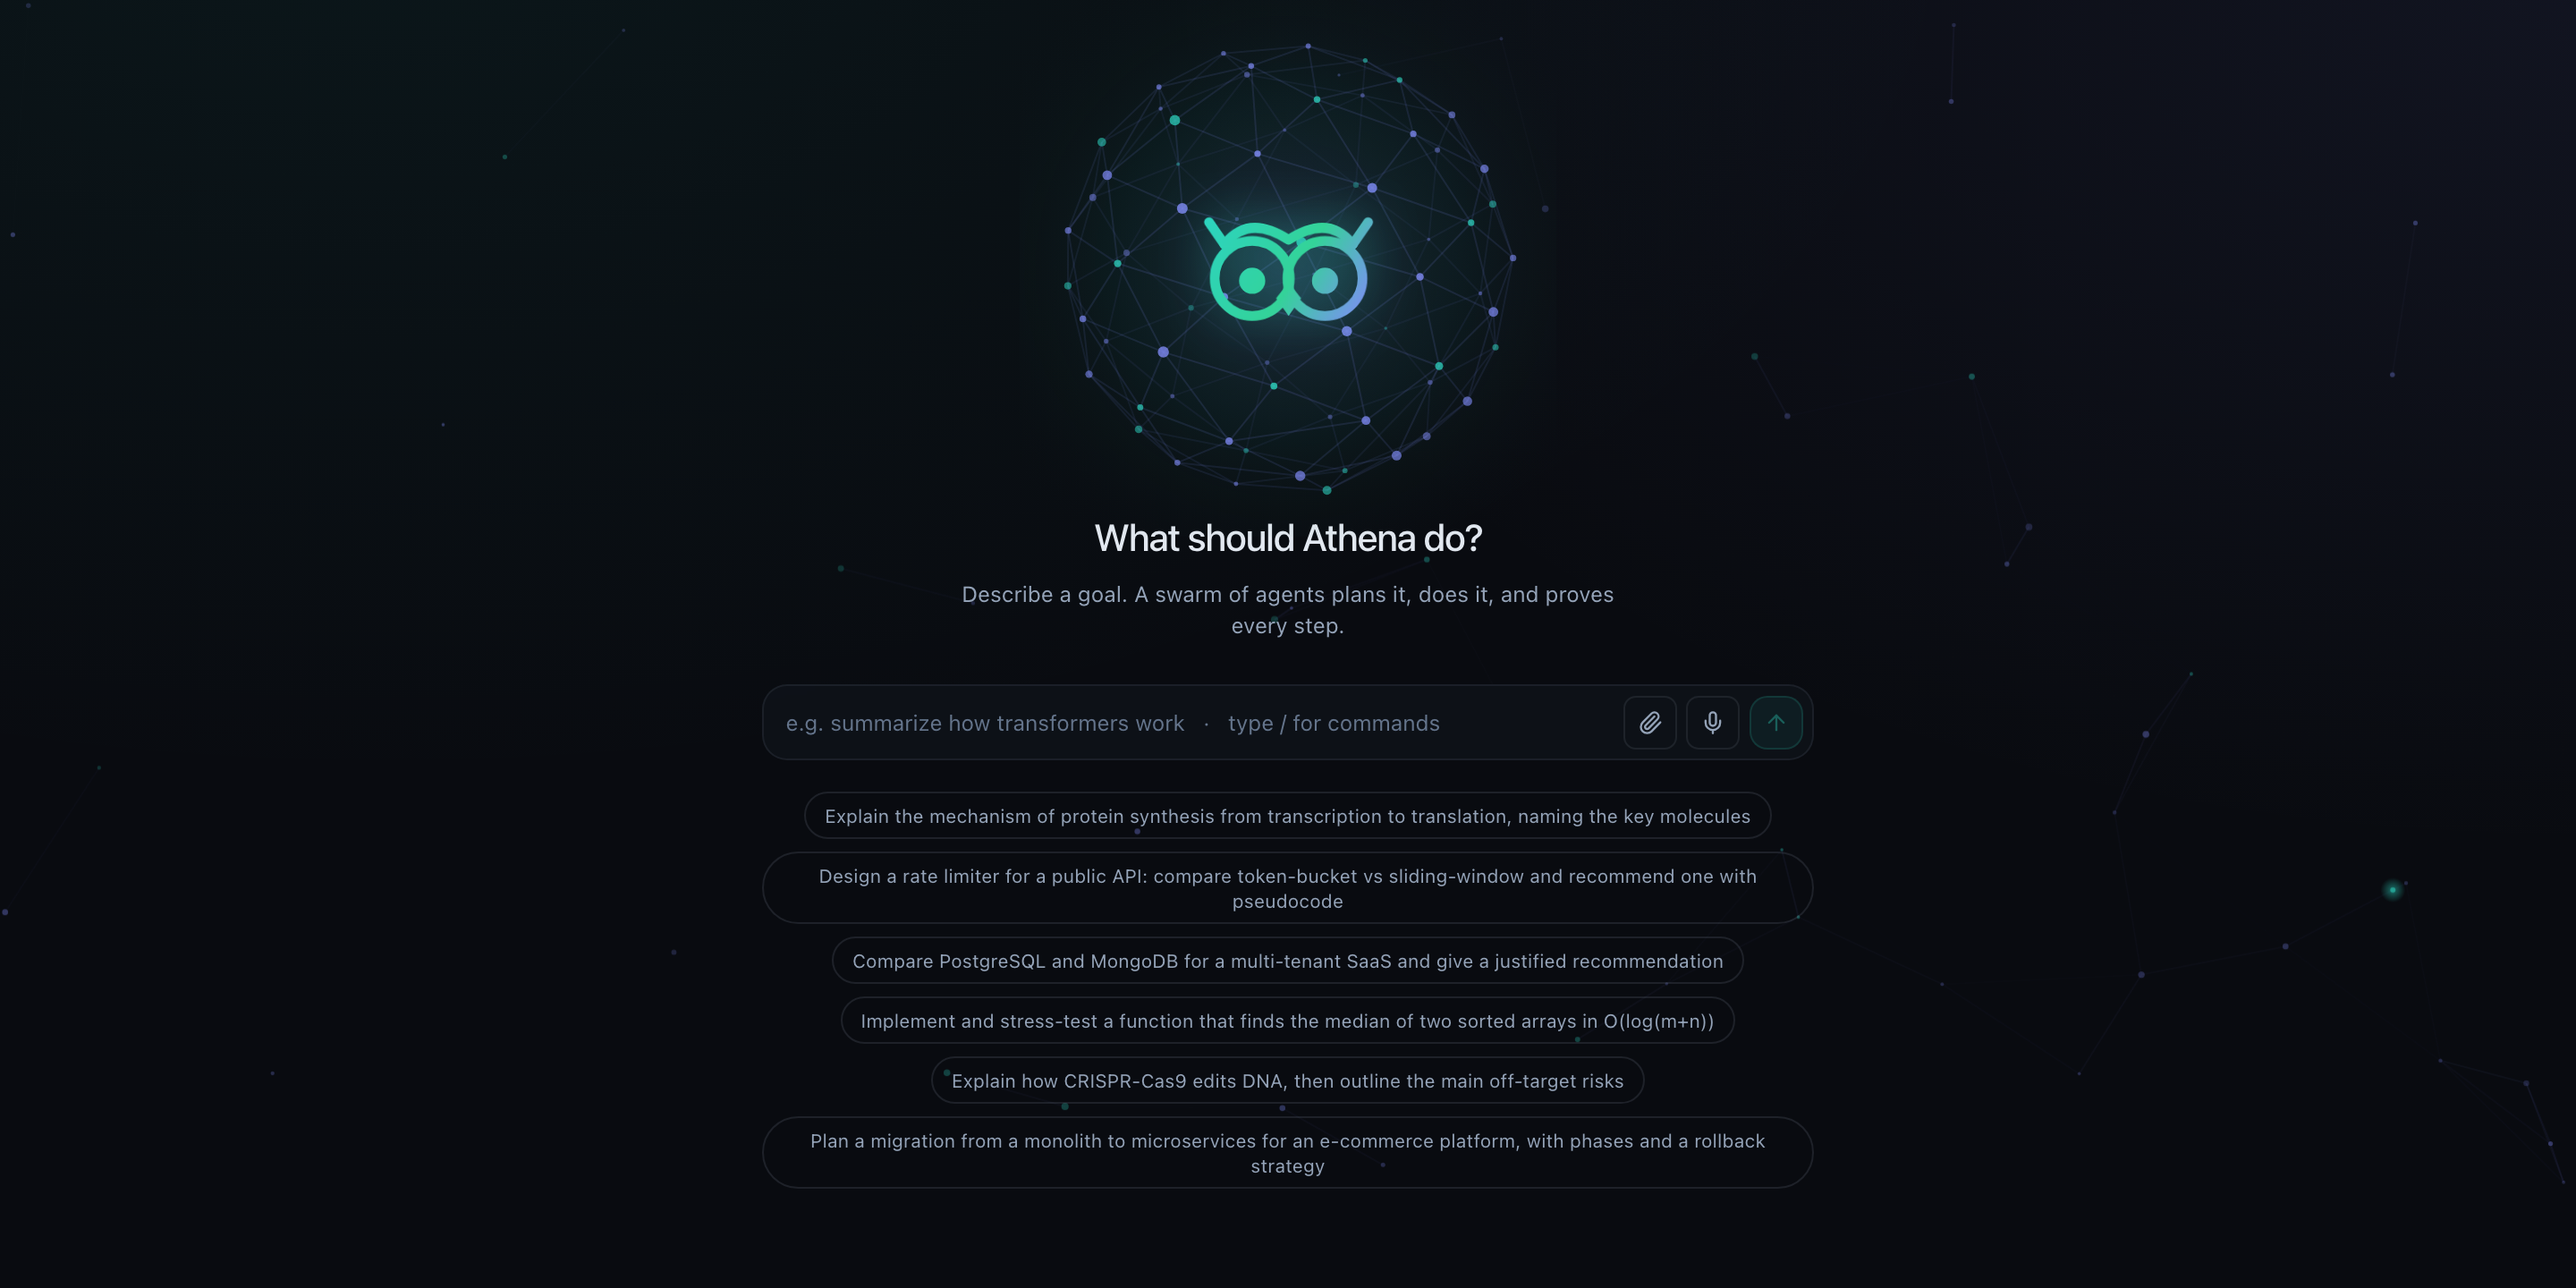
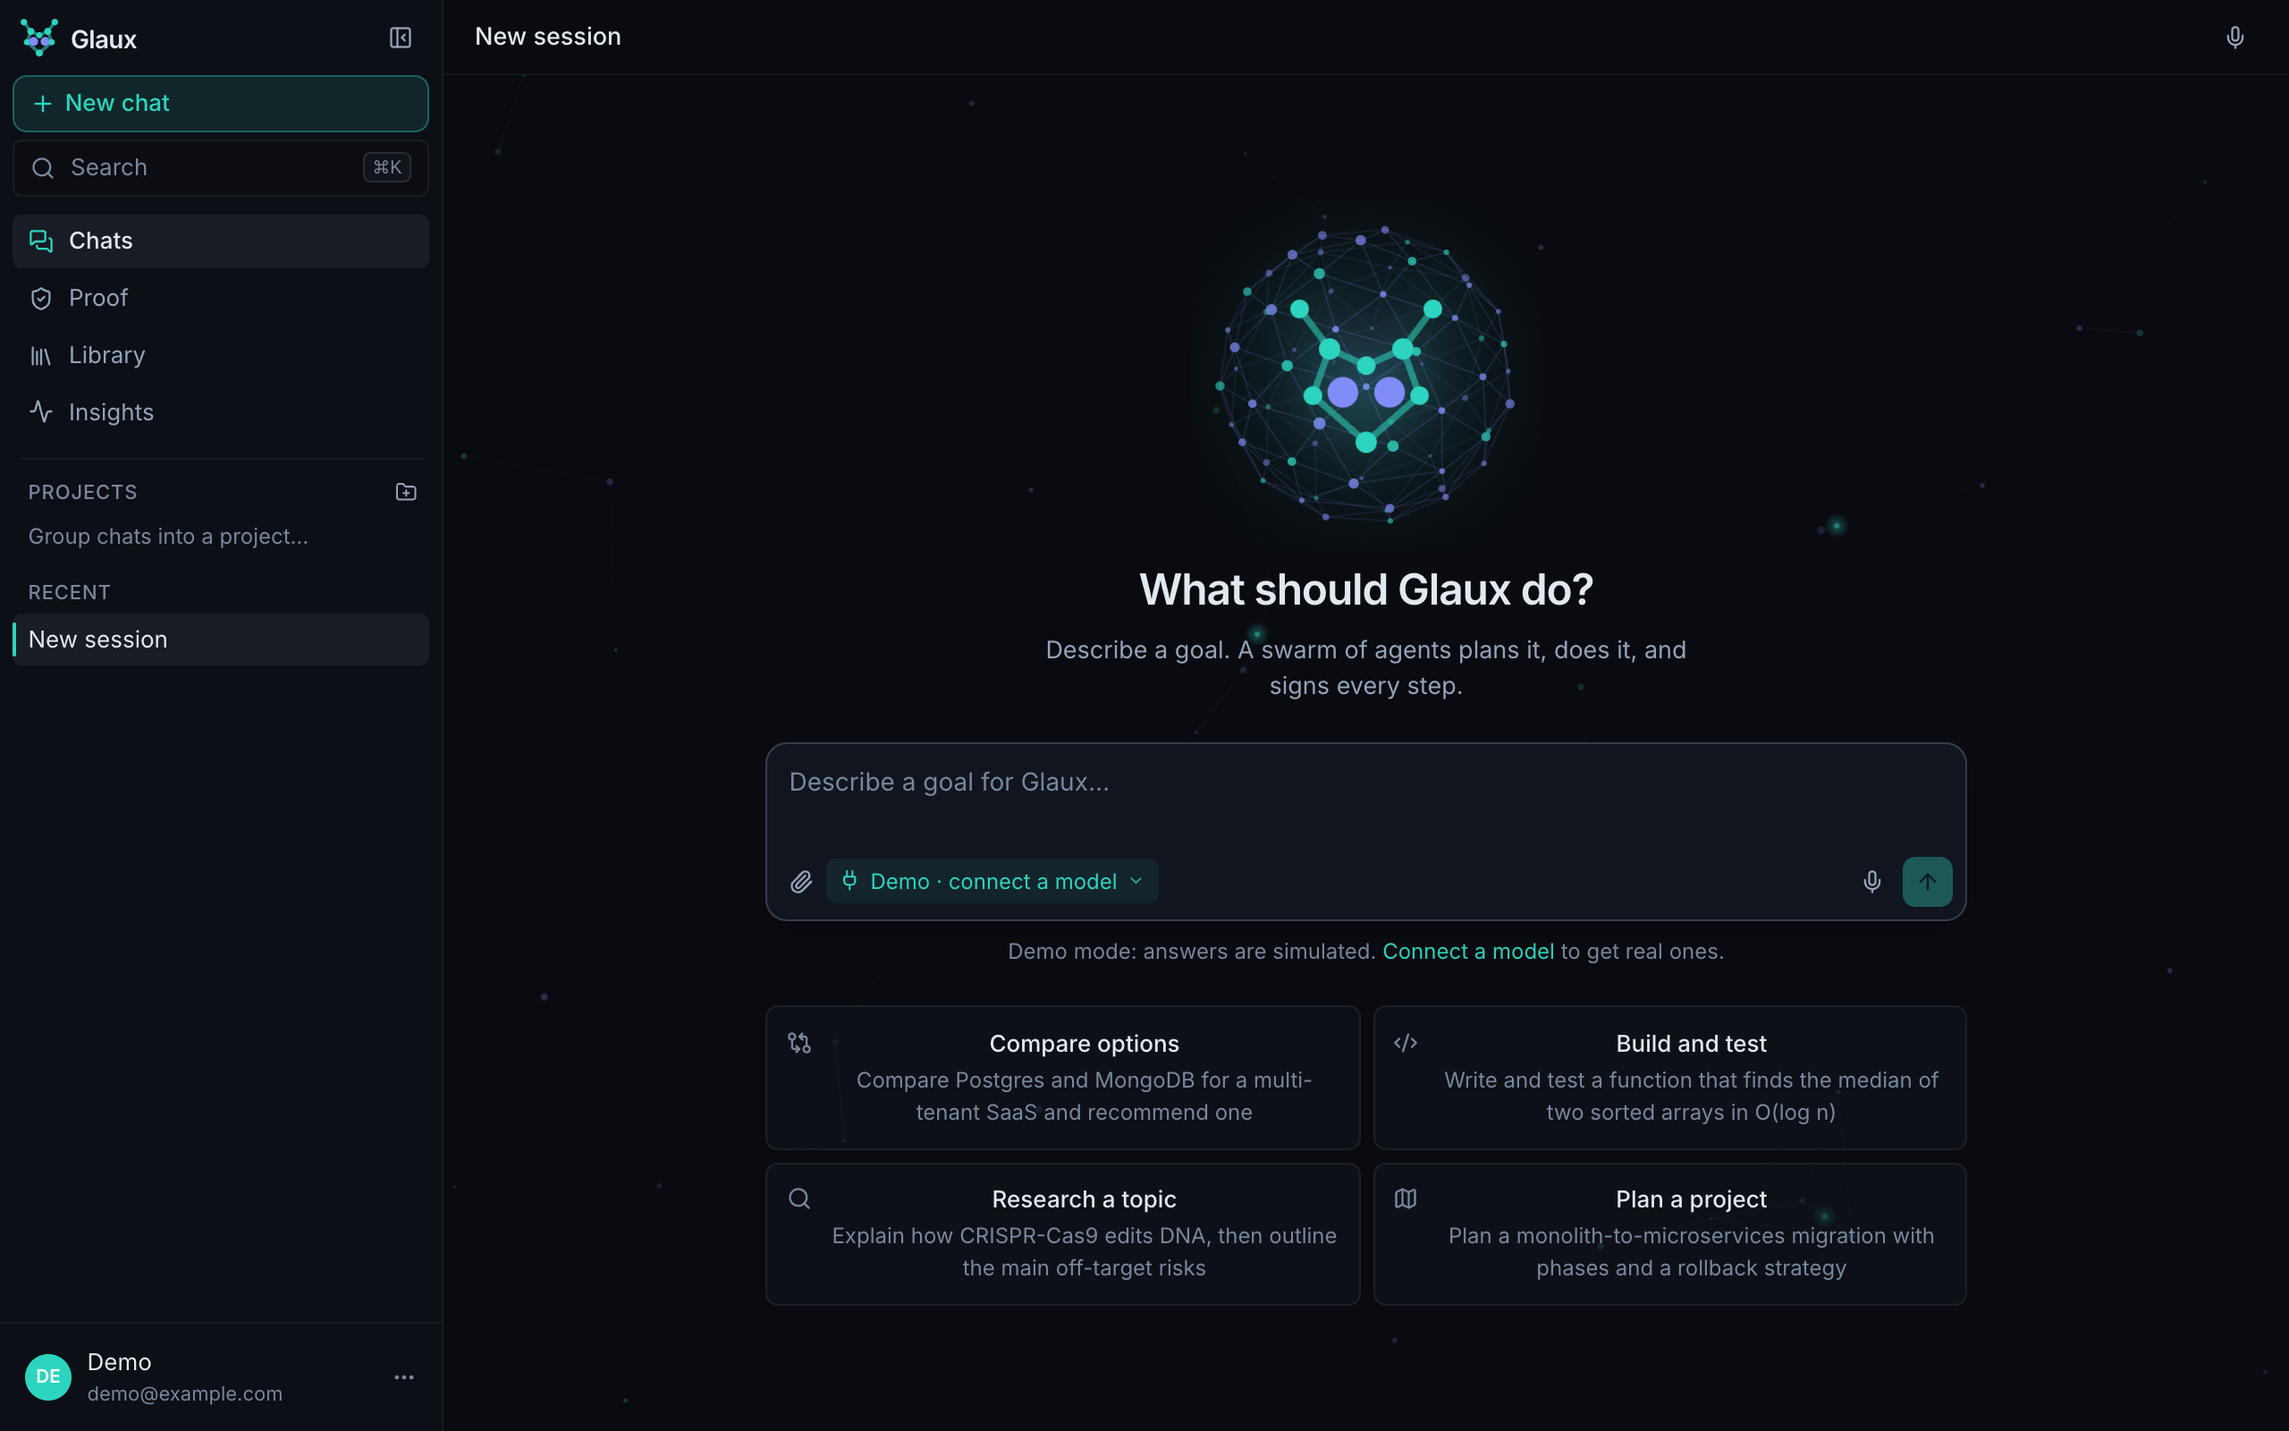
Show the current console in the README and on the site
The README's screenshots were from July: the old layout, with the console
still saying Athena. Replace them with captures of the current UI in demo
mode, add the Proof page, and drop an unused landing screenshot that still
said Athena. The site quoted routing numbers from the old screenshot, so it
now quotes the new one.

diff --git a/site/app/page.tsx b/site/app/page.tsx
@@ -236,8 +236,8 @@ export default function Home() {
             </h2>
             <p className="mt-4 text-muted">
               The harness learns from task outcomes: better routing, per-specialist budgets, prompt
-              lessons, distilled playbooks, and promoting proven tools. Above, it has lifted its own
-              routing accuracy to 95% over 71 episodes.
+              lessons, distilled playbooks, and promoting proven tools. In the demo run shown here,
+              it lifted its own routing accuracy from 31% to 51% over 61 episodes.
             </p>
             <ul className="mt-5 space-y-2.5 text-sm text-muted">
               {[
@@ -261,9 +261,9 @@ export default function Home() {
           <div className="overflow-hidden rounded-2xl border border-line/12 shadow-xl shadow-black/30">
             <Image
               src={asset("/images/evolution.png")}
-              alt="The self-evolving harness"
-              width={2400}
-              height={2000}
+              alt="The self-improvement tab: routing accuracy, learned budgets, and a signed evolution log"
+              width={2560}
+              height={1970}
               className="w-full"
             />
           </div>

diff --git a/README.md b/README.md
@@ -7,7 +7,7 @@ hash-chained ledger — so you can *verify* what your agents did, not just read 
 
 [![CI](https://github.com/aniketshukla1/glaux/actions/workflows/ci.yml/badge.svg)](https://github.com/aniketshukla1/glaux/actions/workflows/ci.yml)
 ![Python](https://img.shields.io/badge/python-3.10%2B-blue)
-![Tests](https://img.shields.io/badge/tests-464%20passing-brightgreen)
+![Tests](https://img.shields.io/badge/tests-469%20passing-brightgreen)
 [![License](https://img.shields.io/badge/license-Apache--2.0-blue)](LICENSE)
 
 `multi-agent swarm` · `signed ledger` · `runtime tool synthesis` · `self-improving` · `WASM sandbox` · `local-first`
@@ -36,7 +36,9 @@ git clone https://github.com/aniketshukla1/glaux && cd glaux
 ```
 
 <div align="center">
-<img src="docs/images/console.png" alt="The Glaux swarm console" width="860" />
+<img src="docs/images/console.png" alt="The Glaux console: describe a goal, and a swarm of agents plans it, does it, and signs every step" width="860" />
+<br />
+<sub>Screenshots are from the built-in demo mode: no model connected, answers simulated, signatures real.</sub>
 </div>
 
 ---
@@ -55,6 +57,12 @@ git clone https://github.com/aniketshukla1/glaux && cd glaux
 
 Every action is Ed25519-signed by the agent that took it and appended to a hash-chained
 ledger. Tracing tells you what a system *claims* it did; a signed chain lets you prove it.
+The console's **Proof** page shows the chain: every block, who signed it, and the command
+to check it offline.
+
+<div align="center">
+<img src="docs/images/proof.png" alt="The Proof page: chain verified, every block with its signer and hash, and the command to check it offline" width="860" />
+</div>
 
 **Don't take our word for it — break it yourself.** Re-attribute one action to a different
 agent and the chain names the exact block you touched:
@@ -96,7 +104,7 @@ replay accuracy over recorded episodes, **signed** to the ledger as `EVOLVE_HARN
 ship.
 
 <div align="center">
-<img src="docs/images/evolution.png" alt="The self-evolving harness: routing accuracy, promoted tools, and a signed evolution log" width="760" />
+<img src="docs/images/evolution.png" alt="The self-improvement tab: routing accuracy, learned budgets, and a signed evolution log" width="860" />
 </div>
 
 ### 4. It doesn't pay the full stack tax on every question
@@ -146,7 +154,7 @@ tool servers, browser and computer control, and a desktop app and messaging gate
 
 ```bash
 ./install.sh
-venv/bin/python -m pytest -q          # 464 tests
+venv/bin/python -m pytest -q          # 469 tests
 scripts/clean_install_test.sh         # install on a pristine container, end to end
 ```
 
